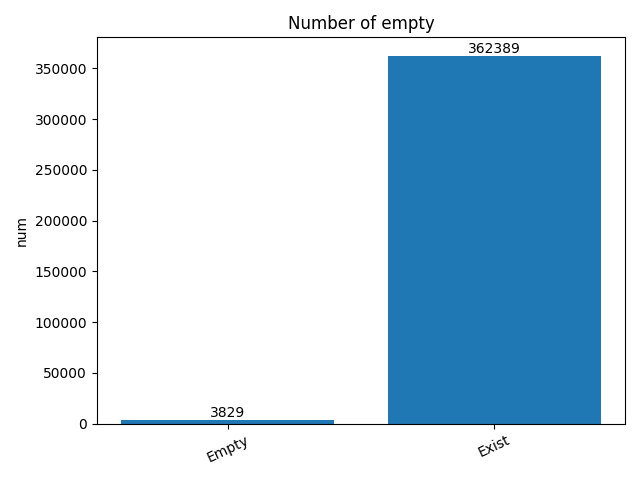
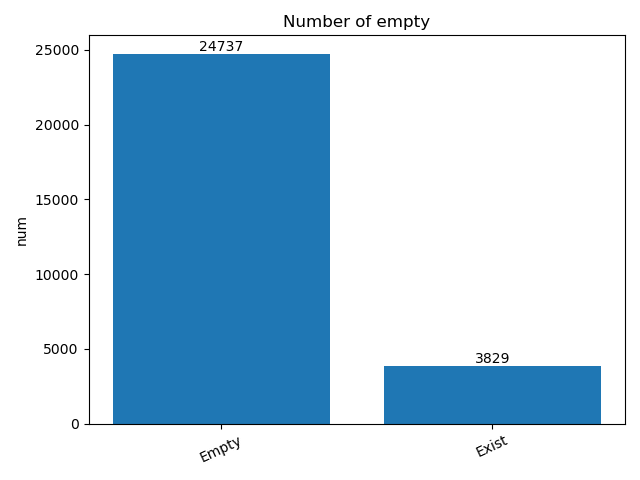
6/20

diff --git a/abner/proc.py b/abner/proc.py
@@ -11,6 +11,8 @@ def _txt(dic):
     P = dic['train']
     F = []
     Emp = []
+    Fn = 0
+    En = 0
     for p in P:
         fL = listdir(p)
         for nf in fL:
@@ -20,10 +22,12 @@ def _txt(dic):
                     if f.ndim==1:
                         f = f[np.newaxis, :]
                     F.append(f)
+                    Fn = Fn + 1
                 else:
                     Emp.append(f)
+                    En = En + 1
     F = np.vstack(F)
-    return F, Emp
+    return F, Emp, Fn, En
 
 def _cal(F):
     B = np.zeros(5)
@@ -45,10 +49,11 @@ def createLabels(data):
         
 
 #%%
-F, Emp = _txt(dic)
+F, Emp, Fn, En = _txt(dic)
 class_num = _cal(F)
 
 #%% Plt
+
 fig, ax = plt.subplots(1,1)
 classes = [
     'TYPE_UNKNOWN',
@@ -68,7 +73,7 @@ plt.savefig('./img/class.png')
 
 fig, ax = plt.subplots(1,1)
 x = ['Empty', 'Exist']
-F_num = np.array([len(Emp), len(F)])
+F_num = np.array([Fn, En])
 B = plt.bar(x, F_num)
 createLabels(B)
 ax.set_ylabel('num')
